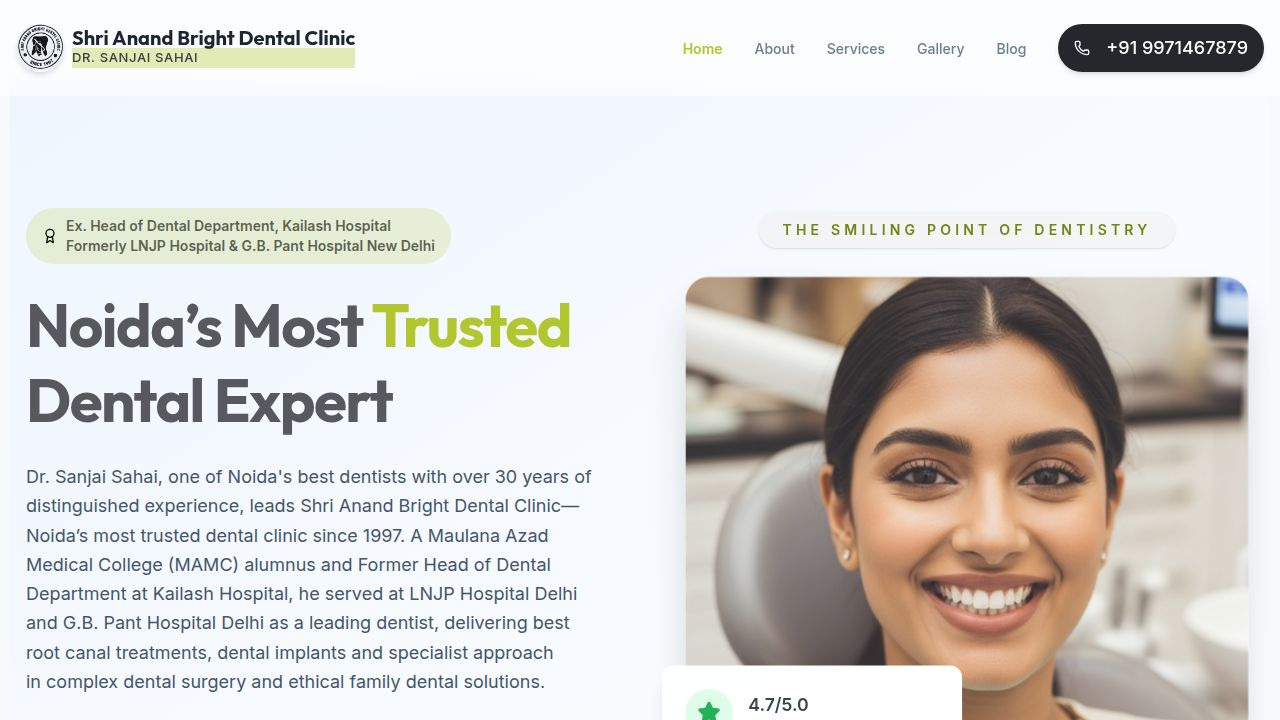
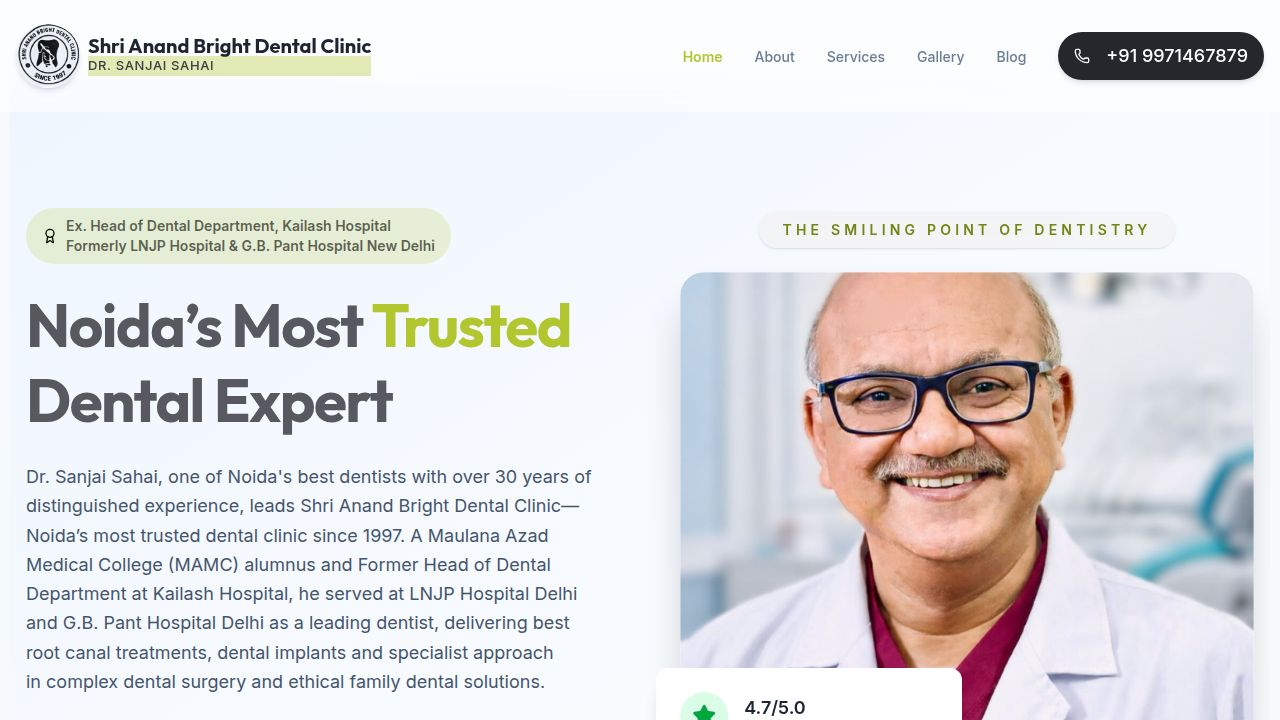
Update website with new images and remove taglines
Replaces hero image on home page and updates site assets.

Replit-Commit-Author: Agent
Replit-Commit-Session-Id: 53026c26-9e4d-49a1-b554-760bd5f3bdb2
Replit-Commit-Checkpoint-Type: full_checkpoint
Replit-Commit-Event-Id: 859d2cd0-84b5-4fc1-ba8f-c2f7e3f76628
Replit-Commit-Screenshot-Url: https://storage.googleapis.com/screenshot-production-us-central1/1ec2a77f-9ef1-43e6-8072-b4ac018818dc/53026c26-9e4d-49a1-b554-760bd5f3bdb2/VFd3L4g
Replit-Helium-Checkpoint-Created: true

diff --git a/client/src/pages/Home.tsx b/client/src/pages/Home.tsx
@@ -107,8 +107,8 @@ export default function Home() {
               >
                 <div className="rounded-3xl shadow-2xl overflow-hidden w-full h-[500px] relative">
                   <img
-                    src="/shrianand-website/images/hero-smile-indian-zoomed.png"
-                    alt="Perfect Smile"
+                    src="/shrianand-website/images/dr-sanjai-sahai.jpeg"
+                    alt="Dr. Sanjai Sahai"
                     className="w-full h-full object-cover hover:scale-[1.02] transition-transform duration-500"
                   />
                 </div>
